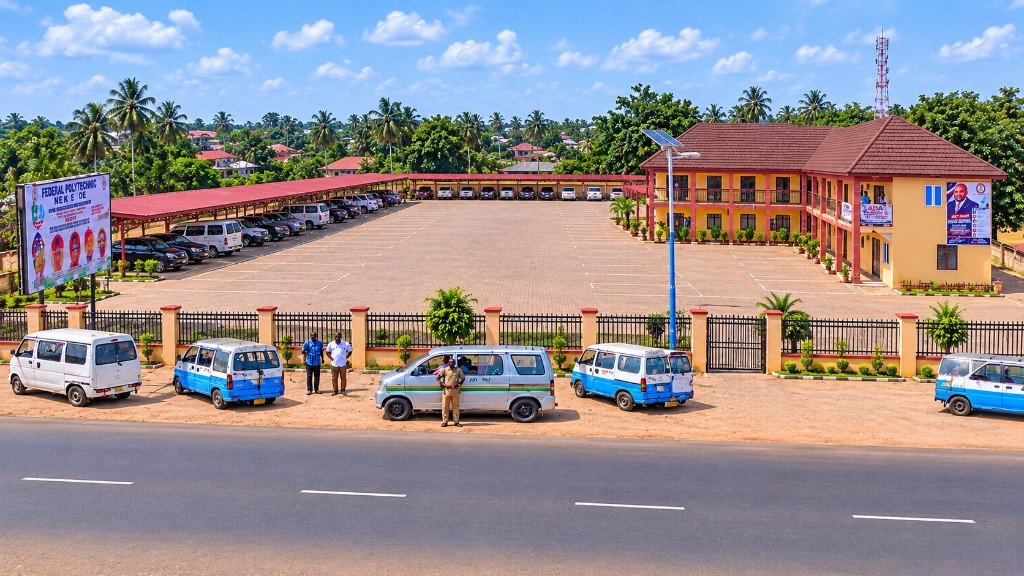
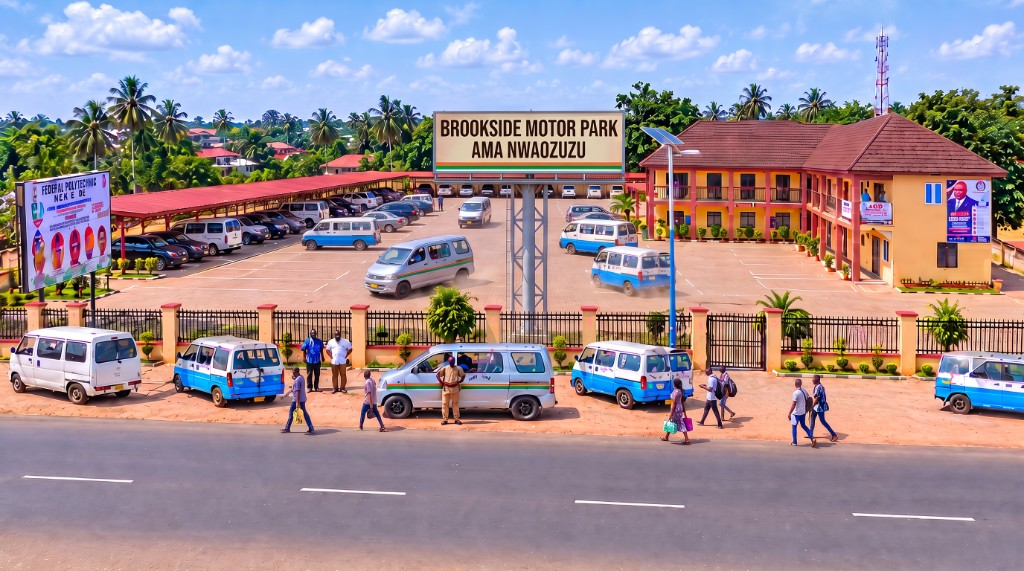
Replace the Ama Nwaozuzu Motor Park photo with the signed courtyard view.

diff --git a/AGENTS.md b/AGENTS.md
@@ -4,7 +4,7 @@ Living context file for any AI agent (or human) resuming work on this repo.
 **Read this first — it tells you what was done, how things work, and where to
 pick up next.** Keep it updated at the end of every work session.
 
-> Last session completed: **2026-11-22 — Ama Nwaozuzu Motor Park photo**
+> Last session completed: **2026-11-22 — Ama Nwaozuzu sign photo**
 
 ---
 
@@ -129,7 +129,7 @@ cp .env.example .env.local    # DATABASE_URL, RESEND_*, ADMIN_*, SITE_URL
 
 ## 9. Session log
 
-- **2026-11-22 — Motor park photo.** Replaced `public/images/project-motor-park.jpg` with the wider courtyard photograph for Ama Nwaozuzu Motor Park, Iho.
+- **2026-11-22 — Motor park photo.** Replaced `public/images/project-motor-park.jpg` with the Brookside Motor Park / Ama Nwaozuzu sign photograph.
 - **2026-11-21 — Motor park photo.** Replaced `public/images/project-motor-park.jpg` with the courtyard photograph supplied for Ama Nwaozuzu Motor Park, Iho. The project page already points at that file.
 - **2026-11-21 — Contact form still failing after the MySQL query change.** The live request waited about 7s and returned 500, so the database host was not answering. MySQL now tries the server socket before TCP. Mail tries the local SMTP port, then the server sendmail program, so a message can still reach info@iedf.org.ng when the database is down.
 - **2026-11-21 — Contact form and About mobile.** Contact failed on WhoGoHost
